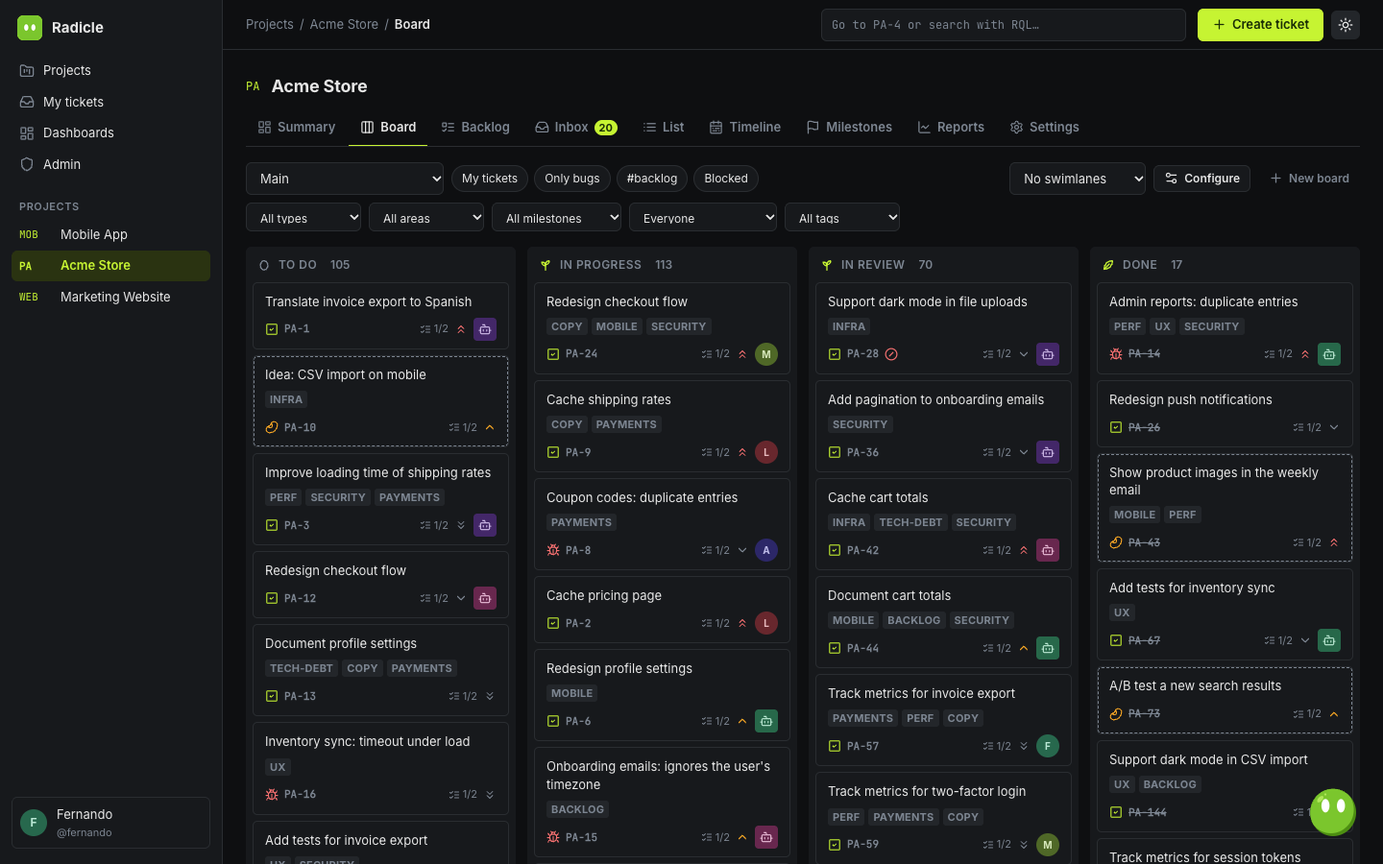
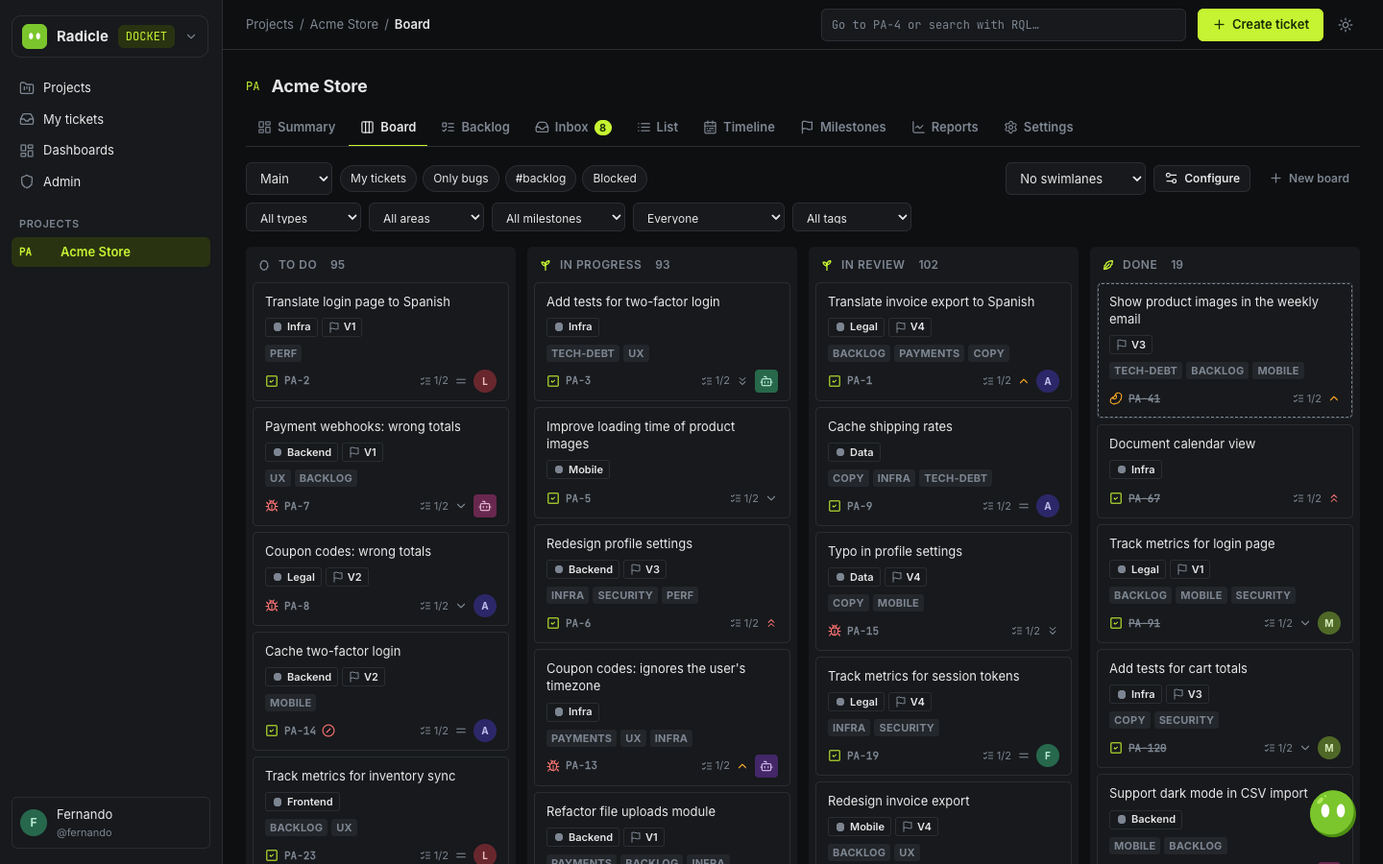
docs: Folio phase 1 complete, phase 2 progress, and new screenshots
README (English and Spanish): Folio's section with screenshots of the home,
spaces, reading, the editor, publishing, history, approvals and search; the
roadmap marks phase 1 done and lists what phase 2 has so far; SMTP and the
login limit in the configuration. Docket screenshots taken again (the logo now
holds the suite switch; cards show area and milestone). progress.md and the
changelog record phase 1 and phase 2 so far.

Claude-Session: https://claude.ai/code/session_01TXA1ksCQmQs95Cjnry6PLy

diff --git a/README.md b/README.md
@@ -13,7 +13,7 @@
 <p align="center">
   <a href="LICENSE"><img alt="License: AGPL v3" src="https://img.shields.io/badge/license-AGPLv3-4D7C0F?style=flat-square"></a>
   <a href="CONTRIBUTING.md"><img alt="PRs welcome" src="https://img.shields.io/badge/PRs-welcome-C6F432?style=flat-square&labelColor=1A2E05"></a>
-  <img alt="MCP tools" src="https://img.shields.io/badge/MCP-52%20tools-C6F432?style=flat-square&labelColor=1A2E05">
+  <img alt="MCP tools" src="https://img.shields.io/badge/MCP-63%20tools-C6F432?style=flat-square&labelColor=1A2E05">
   <a href="README.es.md"><img alt="Leer en español" src="https://img.shields.io/badge/lee%20en-espa%C3%B1ol-F1F2F4?style=flat-square"></a>
 </p>
 
@@ -46,7 +46,7 @@
   - [12. Audit log](#12-audit-log)
   - [13. AI agents over MCP](#13-ai-agents-over-mcp)
   - [14. Keyboard, command palette and themes](#14-keyboard-command-palette-and-themes)
-  - [15. Folio and the AI provider](#15-folio-and-the-ai-provider)
+  - [15. Folio: your team's docs](#15-folio-your-teams-docs)
 - [Configuration](#%EF%B8%8F-configuration)
 - [Architecture](#%EF%B8%8F-architecture)
 - [Development](#-development)
@@ -63,6 +63,7 @@
 | 🔒 **Serious access control** | Groups, a permission matrix per project, restricted tickets that are invisible everywhere (search, boards, reports, MCP), OpenID Connect SSO and an append-only audit log. |
 | 🗺 **Plan and see** | Kanban and Scrum boards, sprints, a timeline with forecasts, ten agile and general reports and drag-and-drop dashboards. |
 | 🟢 **A guide inside** | Radi, the mascot, answers how-to questions from the usage guide and, with an LLM of your choice, walks you through the screen step by step. |
+| 📚 **Docs next to the tickets** | **Folio**, the second app, keeps the team's documentation: spaces, a block editor, versions, per-page permissions, search that understands questions, and an MCP so agents read and propose docs that an admin approves. |
 | ⚡ **Fast to work in** | A query language (RQL), a command palette, keyboard shortcuts for everything and light and dark themes. In English and Spanish. |
 | 🏠 **Yours** | One `docker compose up`. PostgreSQL, your server, your data. |
 
@@ -398,12 +399,51 @@ Switch between light and dark with the moon button, and between English and Span
 
 **Use it as a desktop app.** Radicle can be installed as its own app, with Radi in the Dock and its own window: in Chrome click **Install** in the address bar, or in Safari choose **File → Add to Dock**.
 
-### 15. Folio and the AI provider
+### 15. Folio: your team's docs
 
-Radicle is growing a second app, **Radicle Folio**, for documentation (specs in `docs/folio/`). Docket, the ticket tracker, and Folio share users, groups, agents and the sign-in: open the menu on the logo (or press `g f` / `g d`) to switch, and each app opens where you left it.
+> <img src="docs/images/radi.svg" alt="Radi" width="22" align="top"> **Radi:** Radicle has a second app now: **Folio**, for documentation. Open the menu on the logo, or press <kbd>g</kbd> <kbd>f</kbd>, and press <kbd>g</kbd> <kbd>d</kbd> to come back to Docket.
 
-- **Admin → Settings → AI provider** sets one provider for chat and embeddings (OpenAI, an OpenAI-compatible server such as Voyage, Ollama, or Anthropic for chat). The key is stored encrypted; **Test connection** embeds a short text and shows the dimensions and latency. Without a provider, everything else works.
-- **Folio → Admin → Global roles** decides who reads, creates or administers Folio: a person, a group or everyone (everyone reads by default). People without any role don't see Folio.
+Docket (the ticket tracker) and Folio share people, groups, agents and the sign-in. Each app opens where you left it.
+
+<p align="center"><img src="docs/images/folio-home.png" alt="Folio home" width="900"></p>
+
+- **Home.** A magazine-like front page: the featured doc, the latest announcement, AI Tools, the latest posts, the most read and every space with its doc count. **Write** starts a page or a blog post in any space where you can create.
+- **Spaces and pages.** Each team gets a space with a tree of pages and folders (drag to reorder or nest them) and a blog. Everyone also has a personal space.
+
+<p align="center">
+  <img src="docs/images/folio-space.png" alt="A space with its tree and blog posts" width="49%">
+  <img src="docs/images/folio-read.png" alt="Reading a page as a magazine" width="49%">
+</p>
+
+- **Reading.** Pages read like a magazine, with an "On this page" index, the owner, status, type, language and labels. **Focus mode** leaves just the text and a progress bar, and it remembers your choice. Light and dark, like the rest of Radicle.
+- **Writing.** A full-screen editor saves your draft as you type. Press <kbd>/</kbd> for any block (headings, lists, checklists, tables, code, panels, expands, columns, images, files and video), or write Markdown shortcuts. Paste or drop images to upload them.
+
+<p align="center">
+  <img src="docs/images/folio-editor.png" alt="The editor with the / menu" width="49%">
+  <img src="docs/images/folio-publish.png" alt="Publishing with metadata" width="49%">
+</p>
+
+- **Publishing.** Every page carries the metadata your team needs: a description, document type, labels, owner, audiences and language. Publishing checks them field by field. Each publish is an immutable version: compare any two and restore an old one, which becomes a new version.
+- **Status.** Owners mark a page *In review* or *Verified*; verification expires after the space's days (90 by default) and the page turns *Outdated*, and its owner is told. Search lifts verified pages and lowers outdated ones.
+- **Permissions.** Global roles (reader, creator, admin) in **Folio → Admin**, permissions per space, and restrictions per page. A restricted page and everything under it disappear for everyone else: tree, search, RQL, the home and the MCP.
+- **Agents and approval.** Agents write over MCP like anyone else, but what they publish waits in **Approvals** until a Folio admin approves it or rejects it with a comment for the agent.
+
+<p align="center">
+  <img src="docs/images/folio-history.png" alt="History with a diff between versions" width="49%">
+  <img src="docs/images/folio-approvals.png" alt="The approval queue" width="49%">
+</p>
+
+- **Search.** Type a question in the bar at the top and Folio finds the section that answers it, in English and Spanish. Hybrid search mixes words and meaning (with an AI provider for embeddings); filters narrow it by space, type, document type, language or label. The same RQL as Docket queries docs: `space = ai-tools AND #onboarding AND published >= -30d ORDER BY published DESC`.
+
+<p align="center"><img src="docs/images/folio-search.png" alt="Search results with highlighted matches" width="820"></p>
+
+- **AI provider.** **Admin → Settings → AI provider** sets one provider for chat and embeddings (OpenAI, an OpenAI-compatible server such as Voyage, Ollama, or Anthropic for chat). The key is stored encrypted; **Test connection** shows the dimensions and latency. Without one, search uses words only.
+- **Folio's MCP.** `/mcp/folio` takes the same tokens as `/mcp`. Agents search (`search_docs`, `query_docs`), read pages in Markdown (`get_page`), learn what publishing needs (`get_metadata_schema`), write (`create_page`, `update_draft`) and send for approval (`submit_for_publication`, `list_my_submissions`). Admins pick which Folio tools each agent may use, as with Docket's.
+
+```bash
+claude mcp add --transport http radicle-folio https://radicle.example.com/mcp/folio \
+  --header "Authorization: Bearer rdc_your_agent_token"
+```
 
 ## ⚙ Configuration
 
@@ -424,6 +464,8 @@ Everything is set with environment variables (see [`.env.example`](.env.example)
 | `RADICLE_AUDIT_RETENTION_DAYS` | `730` | Days the audit log is kept. |
 | `RADICLE_SESSION_DAYS` | `14` | Session length (sliding). |
 | `RADICLE_ASSISTANT_*` | unset | Radi's LLM; see [Meet Radi](#-meet-radi). Without it, Radi answers from the guide. |
+| `RADICLE_SMTP_HOST`, `_PORT`, `_USER`, `_PASSWORD`, `_FROM`, `_TLS` | unset, `587` | Email notifications. Without a host, notifications are in-app only. Port 465 uses implicit TLS. |
+| `RADICLE_LOGIN_RATE_LIMIT_PER_MINUTE` | `10` | Sign-in attempts per IP per minute. |
 | `POSTGRES_*` | `radicle` | Database credentials. Change the password in production. |
 
 The `worker` container runs background jobs: template propagation, image variants, large bulk edits, ranking, daily snapshots and audit retention. If it is down, those jobs wait in the queue.
@@ -437,7 +479,7 @@ The `worker` container runs background jobs: template propagation, image variant
 | Layer | Stack |
 | --- | --- |
 | Backend | Python 3.12, FastAPI, SQLAlchemy 2 (async), Alembic, Pydantic 2, Procrastinate (jobs on Postgres), Authlib (OIDC) |
-| Database | PostgreSQL 16, with full-text search in English and Spanish |
+| Database | PostgreSQL 16 with pgvector, full-text search in English and Spanish |
 | Frontend | React 18, TypeScript, TanStack Router and Query, styled-components, dnd-kit, Recharts, i18next |
 | MCP | Official Python MCP SDK, Streamable HTTP at `/mcp` (Docket) and `/mcp/folio` (Folio) |
 | Quality | pytest with testcontainers (real Postgres and Keycloak), mypy strict, ruff, Vitest, Playwright E2E |
@@ -475,8 +517,8 @@ Stages 1 to 4 are complete: core and MCP, configuration and daily work, planning
 **Radicle Folio (docs)**
 
 - [x] Phase 0: shared platform (one backend split into `platform`, `docket` and `folio`, generic authorization, AI provider, suite switch, Folio's skeleton).
-- [ ] Phase 1: spaces and pages, the editor, publishing with versions, permissions, agent submissions with approval, RAG search and Folio's MCP.
-- [ ] Phase 2: real-time collaboration, comments, mentions, live docs.
+- [x] Phase 1: spaces and pages, the editor, publishing with versions, permissions, agent submissions with approval, RAG search and Folio's MCP.
+- [ ] Phase 2 (in progress): real-time collaboration, comments, mentions, live docs. Done so far: notifications in the app and by email, archiving, moving and copying pages, verification that expires, following, favorites and reactions.
 - [ ] Phase 3: templates, the home editor, visual blocks, whiteboards and databases.
 - [ ] Phase 4: tickets inside docs and chat with citations.
 - [ ] Phase 5: public pages, import and export, Slack and Teams, webhooks.

diff --git a/README.es.md b/README.es.md
@@ -49,6 +49,7 @@ Esta es la versión en español del README. La versión principal, en inglés, e
 | 🔒 **Control de acceso en serio** | Grupos, matriz de permisos por proyecto, tickets restringidos que no aparecen en ningún lado (búsqueda, boards, reportes, MCP), SSO con OpenID Connect y un audit log que nadie puede modificar. |
 | 🗺 **Planea y ve** | Boards Kanban y Scrum, sprints, timeline con pronóstico, diez reportes agile y generales, y dashboards que armas arrastrando. |
 | 🟢 **Una guía adentro** | Radi, la mascota, responde cómo hacer las cosas con la guía de uso y, con el LLM que elijas, te lleva por la pantalla paso a paso. |
+| 📚 **Docs junto a los tickets** | **Folio**, la segunda app, guarda la documentación del equipo: spaces, un editor por bloques, versiones, permisos por página, búsqueda que entiende preguntas y un MCP para que los agentes lean y propongan docs que un admin aprueba. |
 | ⚡ **Rápido para trabajar** | Lenguaje de queries (RQL), paleta de comandos, atajos para todo y temas claro y oscuro. En inglés y en español. |
 | 🏠 **Tuyo** | Un `docker compose up`. PostgreSQL, tu servidor, tus datos. |
 
@@ -369,12 +370,51 @@ Cambia entre claro y oscuro con el botón de la luna, y entre inglés y español
 
 **Úsalo como app de escritorio.** Radicle se puede instalar como app propia, con Radi en el Dock y su propia ventana: en Chrome da clic en **Instalar** en la barra de direcciones, o en Safari elige **Archivo → Añadir al Dock**.
 
-### 15. Folio y el proveedor de IA
+### 15. Folio: los docs de tu equipo
 
-Radicle está creciendo con una segunda app, **Radicle Folio**, para documentación (specs en `docs/folio/`). Docket, el tracker de tickets, y Folio comparten usuarios, grupos, agentes y el inicio de sesión: abre el menú del logo (o usa `g f` / `g d`) para cambiar de app, y cada una abre donde la dejaste.
+> <img src="docs/images/radi.svg" alt="Radi" width="22" align="top"> **Radi:** Radicle ya tiene una segunda app: **Folio**, para documentación. Abre el menú del logo o presiona <kbd>g</kbd> <kbd>f</kbd>, y <kbd>g</kbd> <kbd>d</kbd> para regresar a Docket.
 
-- **Admin → Settings → AI provider** define un solo proveedor para chat y embeddings (OpenAI, un servidor compatible con OpenAI como Voyage, Ollama, o Anthropic para chat). La llave se guarda cifrada; **Test connection** genera un embedding corto y muestra dimensiones y latencia. Sin proveedor, todo lo demás funciona.
-- **Folio → Admin → Global roles** decide quién lee, crea o administra Folio: una persona, un grupo o todos (por default todos leen). Quien no tiene ningún rol no ve Folio.
+Docket (el tracker de tickets) y Folio comparten personas, grupos, agentes y el inicio de sesión. Cada app abre donde la dejaste.
+
+<p align="center"><img src="docs/images/folio-home.png" alt="Home de Folio" width="900"></p>
+
+- **Home.** Una portada tipo revista: el doc destacado, el último anuncio, AI Tools, los últimos posts, lo más leído y cada space con su número de docs. **Write** empieza una página o un blog post en cualquier space donde puedas crear.
+- **Spaces y páginas.** Cada equipo tiene un space con un árbol de páginas y folders (arrástralos para reordenarlos o anidarlos) y un blog. Cada persona tiene además su space personal.
+
+<p align="center">
+  <img src="docs/images/folio-space.png" alt="Un space con su árbol y sus blog posts" width="49%">
+  <img src="docs/images/folio-read.png" alt="Lectura de una página como revista" width="49%">
+</p>
+
+- **Lectura.** Las páginas se leen como revista, con el índice "On this page", el dueño, estado, tipo, idioma y labels. El **modo enfoque** deja solo el texto y una barra de progreso, y recuerda tu elección. En claro y oscuro, como todo Radicle.
+- **Escritura.** Un editor a pantalla completa guarda tu borrador mientras escribes. Presiona <kbd>/</kbd> para cualquier bloque (encabezados, listas, checklists, tablas, código, paneles, expandibles, columnas, imágenes, archivos y video) o usa atajos de Markdown. Pega o suelta imágenes para subirlas.
+
+<p align="center">
+  <img src="docs/images/folio-editor.png" alt="El editor con el menú /" width="49%">
+  <img src="docs/images/folio-publish.png" alt="Publicar con metadata" width="49%">
+</p>
+
+- **Publicación.** Cada página lleva la metadata que tu equipo necesita: descripción, tipo de documento, labels, dueño, audiencias e idioma. Publicar la revisa campo por campo. Cada publicación es una versión inmutable: compara dos cualesquiera y restaura una vieja, que se vuelve una versión nueva.
+- **Estado.** El dueño marca una página *In review* o *Verified*; la verificación vence a los días del space (90 por default), la página pasa a *Outdated* y su dueño recibe aviso. La búsqueda sube las verificadas y baja las vencidas.
+- **Permisos.** Roles globales (reader, creator, admin) en **Folio → Admin**, permisos por space y restricciones por página. Una página restringida y todo lo que tiene abajo desaparecen para los demás: árbol, búsqueda, RQL, la home y el MCP.
+- **Agentes y aprobación.** Los agentes escriben por MCP como cualquiera, pero lo que publican espera en **Approvals** hasta que un admin de Folio lo aprueba o lo rechaza con un comentario para el agente.
+
+<p align="center">
+  <img src="docs/images/folio-history.png" alt="Historial con el diff entre versiones" width="49%">
+  <img src="docs/images/folio-approvals.png" alt="La cola de aprobación" width="49%">
+</p>
+
+- **Búsqueda.** Escribe una pregunta en la barra de arriba y Folio encuentra la sección que la responde, en español e inglés. La búsqueda híbrida mezcla palabras y significado (con un proveedor de IA para los embeddings); los filtros la acotan por space, tipo, tipo de documento, idioma o label. El mismo RQL de Docket consulta docs: `space = ai-tools AND #onboarding AND published >= -30d ORDER BY published DESC`.
+
+<p align="center"><img src="docs/images/folio-search.png" alt="Resultados de búsqueda con las coincidencias resaltadas" width="820"></p>
+
+- **Proveedor de IA.** **Admin → Settings → AI provider** define un solo proveedor para chat y embeddings (OpenAI, un servidor compatible con OpenAI como Voyage, Ollama, o Anthropic para chat). La llave se guarda cifrada; **Test connection** muestra dimensiones y latencia. Sin proveedor, la búsqueda usa solo palabras.
+- **MCP de Folio.** `/mcp/folio` acepta los mismos tokens que `/mcp`. Los agentes buscan (`search_docs`, `query_docs`), leen páginas en Markdown (`get_page`), ven qué pide publicar (`get_metadata_schema`), escriben (`create_page`, `update_draft`) y mandan a aprobación (`submit_for_publication`, `list_my_submissions`). Los admins eligen qué tools de Folio puede usar cada agente, igual que con las de Docket.
+
+```bash
+claude mcp add --transport http radicle-folio https://radicle.example.com/mcp/folio \
+  --header "Authorization: Bearer rdc_el_token_del_agente"
+```
 
 ## ⚙ Configuración
 
@@ -395,6 +435,8 @@ Todo se configura con variables de entorno (ve [`.env.example`](.env.example)).
 | `RADICLE_AUDIT_RETENTION_DAYS` | `730` | Días que se guarda el audit log. |
 | `RADICLE_SESSION_DAYS` | `14` | Duración de la sesión (se renueva con el uso). |
 | `RADICLE_ASSISTANT_*` | sin definir | El LLM de Radi; ve [Conoce a Radi](#-conoce-a-radi). Sin él, Radi responde con la guía. |
+| `RADICLE_SMTP_HOST`, `_PORT`, `_USER`, `_PASSWORD`, `_FROM`, `_TLS` | sin definir, `587` | Avisos por email. Sin host, los avisos son solo en la app. El puerto 465 usa TLS implícito. |
+| `RADICLE_LOGIN_RATE_LIMIT_PER_MINUTE` | `10` | Intentos de inicio de sesión por IP por minuto. |
 | `POSTGRES_*` | `radicle` | Credenciales de la base. Cambia el password en producción. |
 
 El contenedor `worker` corre los trabajos en segundo plano: propagación de templates, variantes de imágenes, ediciones masivas grandes, ranking, snapshots diarios y retención del audit log. Si no está corriendo, esos trabajos esperan en la cola.
@@ -408,7 +450,7 @@ El contenedor `worker` corre los trabajos en segundo plano: propagación de temp
 | Capa | Stack |
 | --- | --- |
 | Backend | Python 3.12, FastAPI, SQLAlchemy 2 (async), Alembic, Pydantic 2, Procrastinate (jobs sobre Postgres), Authlib (OIDC) |
-| Base de datos | PostgreSQL 16, con búsqueda full-text en inglés y español |
+| Base de datos | PostgreSQL 16 con pgvector, búsqueda full-text en inglés y español |
 | Frontend | React 18, TypeScript, TanStack Router y Query, styled-components, dnd-kit, Recharts, i18next |
 | MCP | SDK oficial de MCP para Python, Streamable HTTP en `/mcp` |
 | Calidad | pytest con testcontainers (Postgres y Keycloak reales), mypy estricto, ruff, Vitest, E2E con Playwright |
@@ -446,8 +488,8 @@ Las etapas 1 a 4 están completas: core y MCP, configuración y trabajo diario, 
 **Radicle Folio (docs)**
 
 - [x] Fase 0: plataforma compartida (backend partido en `platform`, `docket` y `folio`, autorización genérica, proveedor de IA, switch de suite, esqueleto de Folio).
-- [ ] Fase 1: spaces y páginas, editor, publicación con versiones, permisos, envíos de agentes con aprobación, búsqueda RAG y MCP de Folio.
-- [ ] Fase 2: colaboración en tiempo real, comentarios, menciones, live docs.
+- [x] Fase 1: spaces y páginas, editor, publicación con versiones, permisos, envíos de agentes con aprobación, búsqueda RAG y MCP de Folio.
+- [ ] Fase 2 (en curso): colaboración en tiempo real, comentarios, menciones, live docs. Ya está: avisos en la app y por email, archivar, mover y copiar páginas, verificación que vence, seguir, favoritos y reacciones.
 - [ ] Fase 3: templates, editor de la home, bloques visuales, whiteboards y databases.
 - [ ] Fase 4: tickets dentro de los docs y chat con citas.
 - [ ] Fase 5: páginas públicas, importar y exportar, Slack y Teams, webhooks.

diff --git a/docs/progress.md b/docs/progress.md
@@ -693,18 +693,60 @@ Nota: los E2E `stage1` y `stage3` estaban rotos desde #60 (botones de área y mi
 
 ## Folio fase 1: Core de publicación + MCP
 
-Spec: `docs/folio/fase-1.md`. Decisión de base: [0037](decisions/0037-pgvector-y-dimension-de-embeddings.md).
+Spec: `docs/folio/fase-1.md`. Decisión de base: [0037](decisions/0037-pgvector-y-dimension-de-embeddings.md). Tickets RAD-16 a RAD-23 cerrados con screenshots; milestone Folio Fase 1 cerrado.
+
+| # | Entregable | Estado | PRs |
+| --- | --- | --- | --- |
+| 1.1 | Spaces y árbol | Listo | #84–#87, #139, #144, #145 |
+| 1.2 | Editor base | Listo | #88–#92, #119, #127, #130, #140, #146, #163 |
+| 1.3 | Publicación y versiones | Listo | #93–#96, #121, #124, #153, #154, #165 |
+| 1.4 | Permisos | Listo | #97–#100, #162 |
+| 1.5 | Agentes y aprobación | Listo | #101, #102, #131, #148 |
+| 1.6 | RAG, búsqueda y RQL | Listo | #103–#113, #149, #152, #157, #164, #166 |
+| 1.7 | MCP de Folio | Listo | #111, #114, #115, #168 |
+| 1.8 | UI | Listo | #116, #118, #125–#159 y los arreglos de abajo |
+
+**Qué se hizo**
+
+- **Spaces y árbol:** spaces de equipo y personales, páginas, folders y blog posts con rank fraccional (`COLLATE "C"`), mover dentro del árbol, eventos de nodo append-only.
+- **Editor:** esquema TipTap validado en el servidor, Markdown en los dos sentidos (directivas en `docs/folio/markdown.md`), borradores, assets (imágenes, archivos, video), ícono y portada. En la UI: TipTap a pantalla completa con menú `/`, atajos de Markdown, subir al pegar y autoguardado.
+- **Publicación:** catálogos de tipos, audiencias e idiomas; metadata obligatoria con errores por campo; versiones inmutables (trigger), diff por bloques y de metadata, restaurar como versión nueva.
+- **Permisos:** roles globales, permisos por space y restricciones de vista y edición por página, con la regla de visibilidad en SQL (CTE recursivo). `tests/integration/test_folio_leaks.py` enumera todas las rutas GET de Folio y falla si una no está cubierta.
+- **Agentes:** lo que publica un agente es un envío pendiente; los admins lo aprueban o lo rechazan con comentario.
+- **Búsqueda:** chunks por sección con metadata, pgvector con índices HNSW por dimensión, búsqueda de texto (español e inglés), semántica e híbrida (RRF), con visibilidad en SQL antes de rankear. Si ninguna página tiene todas las palabras, busca con cualquiera (#164). RQL de docs sobre el motor de Docket, que pasó a `platform/query`.
+- **MCP:** 12 tools en `/mcp/folio`; un solo catálogo de tools con límites por agente para todas las apps (`platform/mcp_tools.py`, `platform/mcp/server.py`).
+- **UI:** home bento (`GET /folio/home`), space con árbol arrastrable, lectura revista y modo enfoque, editor, publicar, historial con diff, cola de aprobación, catálogos y búsqueda con barra RQL. Hecha en paralelo por cuatro agentes, cada uno en su worktree.
+
+**Bugs encontrados al probar en Chrome y corregidos:** la barra de Folio tapaba la del editor (#163); la portada de las páginas salía vacía (#163); una pregunta sin todas sus palabras no encontraba nada (#164); los fragmentos de búsqueda mostraban Markdown (#166); los títulos largos del árbol se cortaban sin "…" y el diff se veía como texto plano (#165); Editar se mostraba aunque una restricción de edición lo impidiera (#162); el tag de tipo no se veía en modo oscuro (#169); una página titulada como su primera sección caía en la intro (#113).
+
+### Aceptación de la fase
+
+| Criterio | Dónde |
+| --- | --- |
+| Space con folder, páginas anidadas y blog post, en su sidebar y en la home | `test_folio_tree.py`, `test_folio_home.py`, screenshots en RAD-16 |
+| Guía con todos los bloques y una imagen pegada | `folio_docs.EVERY_BLOCK` (round-trip servidor y editor), `test_folio_assets.py` |
+| Sin descripción no publica; completarla publica | `test_folio_publish.py`, `e2e/suite-folio1.spec.ts` |
+| Comparar la versión 1 con la 3 y restaurar la 1 | `test_folio_versions.py`, screenshot en RAD-18 |
+| Rol creator solo para un grupo; los demás no ven Escribir | `test_folio_roles.py`, `e2e/suite.spec.ts`, screenshot en RAD-19 |
+| Una página restringida desaparece para los demás, también en la búsqueda semántica | `test_folio_leaks.py`, `test_folio_search.py`, `tests/mcp/test_folio_mcp_read.py` |
+| Un agente por MCP propone un post a partir de un repo; queda pendiente y se aprueba en la cola | `tests/mcp/test_folio_mcp_write.py`, `e2e/suite-folio1.spec.ts` |
+| "cómo conecto un agente" da la guía correcta en la sección correcta | `test_folio_search.py::test_acceptance_the_right_guide_at_the_right_section` |
+| Lectura revista y modo enfoque, claro y oscuro | Screenshots en RAD-23 |
+| Docket sigue pasando todos sus tests | Suite completa y E2E: 31/31 en Chrome sobre una instancia limpia |
+
+## Folio fase 2: Colaboración (en curso)
+
+Spec: `docs/folio/fase-2.md`. Decisión: [0038](decisions/0038-eventos-y-notificaciones-en-platform.md).
 
 | # | Entregable | Estado |
 | --- | --- | --- |
-| 1.1 | Spaces y árbol | Pendiente |
-| 1.2 | Editor base | Pendiente |
-| 1.3 | Publicación y versiones | Pendiente |
-| 1.4 | Permisos | Pendiente |
-| 1.5 | Agentes y aprobación | Pendiente |
-| 1.6 | RAG, búsqueda y RQL | Pendiente |
-| 1.7 | MCP de Folio | Pendiente |
-| 1.8 | UI | Pendiente |
+| 2.1 | Bus de eventos y notificaciones en platform | Backend listo (#117, #120, #122, #123, #129); falta la campanita en la UI |
+| 2.2 | Tiempo real | Pendiente (tablas listas en #155) |
+| 2.3 | Comentarios | Pendiente (tablas listas en #155) |
+| 2.4 | Menciones, reacciones, watch, compartir y action items | Watch, favoritos y reacciones listos (#160, #161) |
+| 2.5 | Live docs | Pendiente |
+| 2.6 | Organización | Backend listo: archivar (#142), copiar y mover entre spaces (#147) |
+| 2.7 | Calidad y navegación | Backend de estados, vencimiento, dueño y recientes listo (#133, #151, #160) |
 
-Orden de trabajo: el backend de 1.1 a 1.7 primero (cada entregable en PRs de menos de 500 líneas), luego la UI de 1.8 por pantallas.
-
+- **Eventos:** outbox en la misma transacción, despacho con `SKIP LOCKED`, entregas únicas por evento, persona y canal, preferencias por tipo y canal, email por SMTP con reintentos, y un stream SSE sobre `LISTEN/NOTIFY`.
+- **E2E:** `RADICLE_LOGIN_RATE_LIMIT_PER_MINUTE` se puede subir para correrlos (las specs entran más de diez veces por minuto).

diff --git a/CHANGELOG.md b/CHANGELOG.md
@@ -6,6 +6,8 @@ Formato basado en [Keep a Changelog](https://keepachangelog.com/es-ES/1.1.0/).
 
 ### Changed
 
+- El parser, la gramática y las fechas de RQL viven en `platform/query`, compartidos por Docket y Folio.
+- Screenshots del README actualizados (logo con el switch de suite, tarjetas con área y milestone) y nuevos de Folio.
 - El logo es Radi: su cuadro verde con sus ojos.
 - El CI de GitHub Actions queda en pausa (solo manual); los checks se corren local antes de cada push.
 - Board con look de Jira, columna **In Review** en el board Main y carriles plegables con **Collapse all**.
@@ -16,6 +18,7 @@ Formato basado en [Keep a Changelog](https://keepachangelog.com/es-ES/1.1.0/).
 
 ### Fixed
 
+- Folio: la barra superior tapaba la barra del editor; portada vacía en las páginas; preguntas sin todas sus palabras no encontraban nada; fragmentos de búsqueda con marcas de Markdown; Editar visible pese a una restricción de edición; el tag de tipo no se veía en modo oscuro.
 - E2E de etapas 1 y 3: el arrastre de tarjetas y el carril de área vuelven a pasar con los botones de área y milestone en las tarjetas.
 - Board: soltar una tarjeta en Done la cierra como Done sin pedir resolución.
 - My tickets y List: el encabezado de la tabla ya no se desfasa de las filas.
@@ -28,6 +31,10 @@ Formato basado en [Keep a Changelog](https://keepachangelog.com/es-ES/1.1.0/).
 
 ### Added
 
+- Folio fase 1, la suite de documentación: spaces con árbol y blog, editor TipTap a pantalla completa con menú `/`, publicación con metadata obligatoria y versiones inmutables con diff y restaurar, roles globales, permisos por space y restricciones por página, envíos de agentes con cola de aprobación, búsqueda híbrida (texto en español e inglés y semántica con pgvector), RQL de docs, home bento, lectura revista y modo enfoque, y 12 tools en `/mcp/folio`.
+- Folio fase 2 (en curso): bus de eventos con avisos en la app (SSE) y por email (SMTP), preferencias por tipo y canal; archivar, copiar y mover páginas entre spaces; estados In review, Verified y Outdated con vencimiento por space y aviso al dueño; transferir dueño; seguir, favoritos, reacciones y recientes.
+- Los límites de tools MCP por agente aplican a todas las apps, con los grupos "Folio: leer docs" y "Folio: escribir docs".
+- E2E de Folio fase 1 (`e2e/suite-folio1.spec.ts`).
 - Folio fase 0: el backend se parte en `platform`, `docket` y `folio` sin cambiar Docket; autorización genérica con un proveedor por app; `audit_log.app`; proveedor de IA para chat y embeddings (Admin → Settings → AI provider, con prueba de conexión); switch de suite en el logo con `g d` / `g f`; Folio en `/folio` con roles globales (Admin → Global roles), `/api/v1/folio` y `/mcp/folio` con `whoami`.
 - Áreas con icono: se elige de un set de iconos SVG y se pinta con el color del área; se ve en tarjetas, carriles y timeline.
 - Tarjetas del board con área, milestone y número de subtickets (campos de tarjeta `area`, `milestone` y `children`, prendidos en todos los boards); el área y el milestone se cambian desde la tarjeta.
